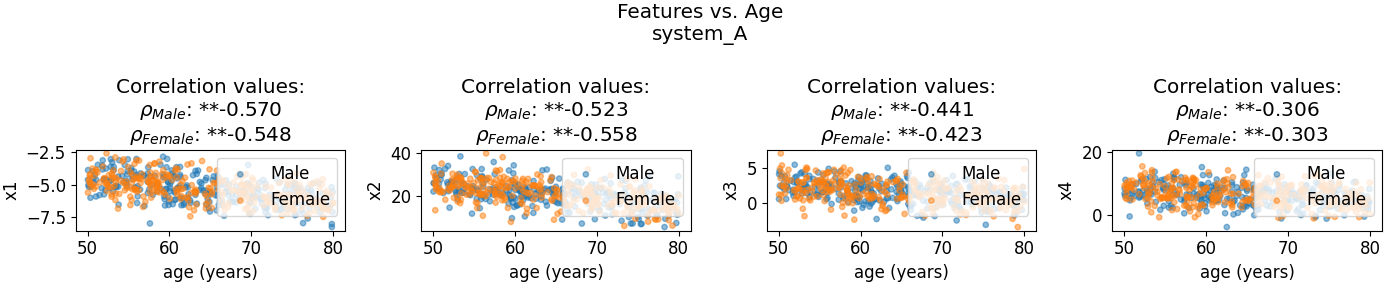
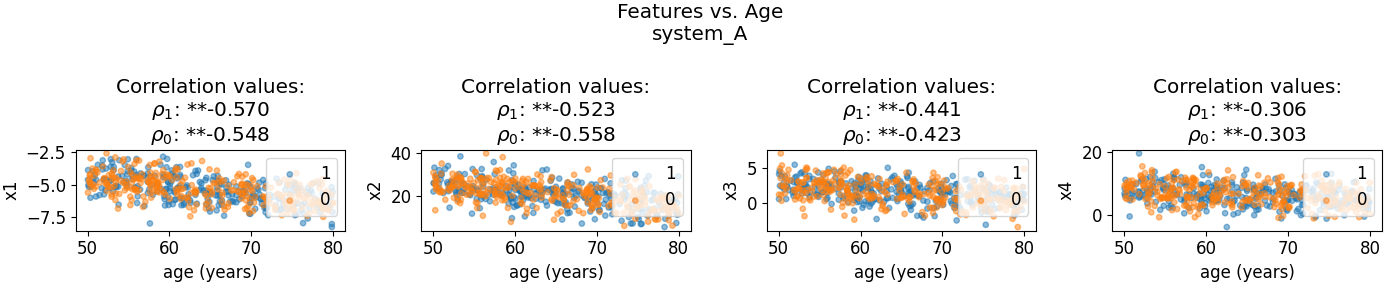
DOC: Updated tutorial and README

diff --git a/docs/TUTORIAL.md b/docs/TUTORIAL.md
@@ -46,32 +46,32 @@ See below the expected output of the `log.txt` file and the age distribution plo
     ```
     <div style="text-align: center;"> <img src="../resources/figs/tutorial/model_age/age_distribution_controls.png" alt="Age distribution of controls stratified by  categorical covariate." height="300"> </div> 
 
-2. Compute and plot the correlation of each feature with the chronological age. If a categorical covariate name is provided in the `--covar_name` argument, the correlation will be computed for each stratum of the covariate. If the `--systems` argument is provided, the correlation will be computed for each system. The `log.txt` file in the specified output directory `output_dir` contains the correlation coefficients and the significance of the correlation for each feature.
+1. Compute and plot the correlation of each feature with the chronological age. If a categorical covariate name is provided in the `--covar_name` argument, the correlation will be computed for each stratum of the covariate. If the `--systems` argument is provided, the correlation will be computed for each system. The `log.txt` file in the specified output directory `output_dir` contains the correlation coefficients and the significance of the correlation for each feature.
 See below a summary of the expected outputs:
     ```
     Features by correlation with Age of Controls [System: system_A]
     significance: 0.05 * -> FDR, ** -> bonferroni
-    Covariate Male
-    1.Male ** x1: -0.57 (3.2e-27)
-    2.Male ** x2: -0.52 (1.7e-22)
-    3.Male ** x3: -0.44 (9.9e-16)
-    4.Male ** x4: -0.31 (6.7e-08)
-    Covariate Female
-    1.Female ** x2: -0.56 (5.6e-26)
-    2.Female ** x1: -0.55 (6.8e-25)
-    3.Female ** x3: -0.42 (2e-14)
-    4.Female ** x4: -0.30 (8.6e-08)
+    Covariate 1
+    1.1 ** x1: -0.57 (3.2e-27)
+    2.1 ** x2: -0.52 (1.7e-22)
+    3.1 ** x3: -0.44 (9.9e-16)
+    4.1 ** x4: -0.31 (6.7e-08)
+    Covariate 0
+    1.0 ** x2: -0.56 (5.6e-26)
+    2.0 ** x1: -0.55 (6.8e-25)
+    3.0 ** x3: -0.42 (2e-14)
+    4.0 ** x4: -0.30 (8.6e-08)
     ```
     <div style="text-align: center;"> <img src="../resources/figs/tutorial/model_age/features_vs_age_controls_system_A.png" alt="Age distribution of controls stratified by categorical covariate." width="1050"> </div> 
 
-3. Train a model specified with the `-m` argument to predict the chronological age of the control group using the features. The model is trained using a K-fold cross-validation that you can specify with the `--cv` argument and the performance metrics are reported in the log file per fold. The use of hyperparameter tuning, polynomial feature extension, and feature scalers can also be specified with the `-ht`, `-fext`, and `-s` arguments, respectively.
+1. Train a model specified with the `-m` argument to predict the chronological age of the control group using the features. The model is trained using a K-fold cross-validation that you can specify with the `--cv` argument and the performance metrics are reported in the log file per fold. The use of hyperparameter tuning, polynomial feature extension, and feature scalers can also be specified with the `-ht`, `-fext`, and `-s` arguments, respectively.
 After training the model, an age-bias correction step is performed, where a linear transformation is applied to the data to fit the $y=x$ line. Also, the age deltas are computed and included in a `predicted_ages_*.csv` file, where the deltas per system are included. **This file is necessary to run the rest of the pipelines**.
     <div style="display: flex; justify-content: center;">
         <div style="margin: 10px;">
-            <img src="../resources/figs/tutorial/model_age/chronological_vs_pred_age_Male_system_A.png" alt="Age distribution of controls stratified by categorical covariate." width="400">
+            <img src="../resources/figs/tutorial/model_age/chronological_vs_pred_age_0_system_A.png" alt="Age distribution of controls stratified by categorical covariate." width="400">
         </div>
         <div style="margin: 10px;">
-            <img src="../resources/figs/tutorial/model_age/age_bias_correction_Male_system_A.png" alt="Age distribution of controls stratified by categorical covariate." width="400">
+            <img src="../resources/figs/tutorial/model_age/age_bias_correction_0_system_A.png" alt="Age distribution of controls stratified by categorical covariate." width="400">
         </div>
     </div>
 
@@ -81,11 +81,11 @@ After training the model, an age-bias correction step is performed, where a line
 To run the factor correlation pipeline run the following command:
 
 ```bash
-factor_correlation -o <output_dir> -a <output_dir/model_age/predicted_age_*> -f toy_factors.csv --covariates toy_covar.csv --clinical toy_clinical.csv
+factor_correlation -o <output_dir> -a <output_dir/model_age/predicted_age_*> -f toy_factors.csv --covariates toy_covar.csv --clinical toy_clinical.csv --covcorr_mode cn
 ```
 
 This pipeline will:
-1. Apply covariate correction to the factors, if covariates are provided.
+1. Apply covariate correction to the factors, if covariates are provided. We specified to base the covariate correction on the control group, but you can also specify to base it on each clinical group and apply the correction separately to each group. In the [Clinical Classify](#4-clinical_classify) section, we will compare this correction using the option `--covcorr_mode each` to apply the correction based on each clinical group.
 2. Compute and plot the correlation between each factor and the age deltas, for every clinical group. If no clinical file is provided, the correlation is computed assuming all subjects are controls. See below the expected output:
     ```
     Correlations between lifestyle factors for g1
@@ -108,7 +108,7 @@ This pipeline will:
 To run the clinical groups pipeline run the following command:
 
 ```bash
-clinical_groups -o <output_dir> -a <output_dir/model_age/predicted_age_*> --clinical toy_clinical.csv --covariates toy_covar.csv
+clinical_groups -o <output_dir> -a <output_dir/model_age/predicted_age_*> --clinical toy_clinical.csv --covariates toy_covar.csv --covcorr_mode cn
 ```
 
 This pipeline will:
@@ -130,10 +130,9 @@ This pipeline will:
     Std age: 9.83
     Age range: [34,80]
     Checking that age distributions are similar using T-test: T-stat (p_value)
-    If p_value > 0.05 distributions are considered similar and not displayed...
+    If p_value > 0.05 distributions are considered simiilar and not displayed...
     Age distributions cn and g1 are not similar: -9.70 (4.2e-21)
-    Age distributions cn and g2 are not similar: 10.80 (1.8e-25)
-    Age distributions g1 and g2 are not similar: 15.68 (1.7e-43)
+    -----------------------------------
     -----------------------------------
     Delta distribution for System:system_a
     [Group: cn]
@@ -149,10 +148,13 @@ This pipeline will:
     Std delta: 4.66
     Delta range: [-9, 17]
     Checking for statistically significant differences between deltas...
+    ===========================================================================================================================
     significance: 0.05 * -> FDR, ** -> bonferroni
-    ** p-value between cn and g1: 1.1e-15
-    ** p-value between cn and g2: 7.5e-35
-    ** p-value between g1 and g2: 3.2e-48
+    p-val (group1 vs. group2)            Cohen's d              CI (95%):   [low, upp]          Delta difference(mean1 - mean2)
+    ---------------------------------------------------------------------------------------------------------------------------
+    ** p-val (cn vs. g1): 1.1e-15        Cohen's d: 0.67        CI (95.0%): [2.27  , 3.73  ]    Delta difference: 3.00           
+    ** p-val (cn vs. g2): 7.5e-35        Cohen's d: -1.06       CI (95.0%): [-5.51 , -4.02 ]    Delta difference: -4.77          
+    ** p-val (g1 vs. g2): 3.2e-48        Cohen's d: -1.68       CI (95.0%): [-8.67 , -6.86 ]    Delta difference: -7.77          
     ```
     <div style="display: flex; justify-content: center;">
         <div style="margin: 10px;">
@@ -168,7 +170,7 @@ This pipeline will:
 To run the clinical classify pipeline run the following command:
 
 ```bash
-clinical_classify -o <output_dir> -a <output_dir/model_age/predicted_age_*> --clinical toy_clinical.csv --covariates toy_covar.csv --groups <group_A> <group_B>
+clinical_classify -o <output_dir> -a <output_dir/model_age/predicted_age_*> --clinical toy_clinical.csv --covariates toy_covar.csv --groups <group_A> <group_B> --covcorr_mode cn
 ```
 
 In the toy dataset, for the groups, you can choose between `cn`, `g1`, and `g2`. This pipeline will:
@@ -202,13 +204,65 @@ In the toy dataset, for the groups, you can choose between `cn`, `g1`, and `g2`.
     ```
     <div style="display: flex; justify-content: center;">
         <div style="margin: 10px;">
-            <img src="../resources/figs/tutorial/clinical_classify/roc_curve_g1_vs_g2_system_a.png" alt="Age distribution of controls stratified by categorical covariate." width="400">
+            <img src="../resources/figs/tutorial/clinical_classify/cn/roc_curve_g1_vs_g2_system_a.png" alt="Age distribution of controls stratified by categorical covariate." width="400">
         </div>
         <div style="margin: 10px;">
-            <img src="../resources/figs/tutorial/clinical_classify/roc_curve_g1_vs_g2_system_b.png" alt="Age distribution of controls stratified by categorical covariate." width="400">
+            <img src="../resources/figs/tutorial/clinical_classify/cn/roc_curve_g1_vs_g2_system_b.png" alt="Age distribution of controls stratified by categorical covariate." width="400">
         </div>
         <div style="margin: 10px;">
-                <img src="../resources/figs/tutorial/clinical_classify/roc_curve_g1_vs_g2_all.png" alt="Age distribution of controls stratified by categorical covariate." width="400">
+                <img src="../resources/figs/tutorial/clinical_classify/cn/roc_curve_g1_vs_g2_all.png" alt="Age distribution of controls stratified by categorical covariate." width="400">
         </div>
     </div>
+
+
+3. Here, we want to demonstrate how the covariate correction can affect the classification results, because in the case of the toy dataset, the covariate "Years of Education" is directly correlated to the age deltas. The classification performance is reduced drastically due to this. We will run the same command but changing the `--covcorr_mode` to `each`:
+
+    ```bash
+    clinical_classify -o <output_dir> -a <output_dir/model_age/predicted_age_*> --clinical toy_clinical.csv --covariates toy_covar.csv --groups     <group_A> <group_B> --covcorr_mode each
+    ```
+
+    The log and the results are the following:
+    ```
+    Classification between groups g1 and g2 [System: system_a]
+    Applying covariate correction for deltas using each clinical group as reference.
+    Summary metrics over all CV splits (0.95 CI)
+    AUC: 0.567 [0.448-0.687]
+    Accuracy: 0.547 [0.445-0.650]
+    Sensitivity: 0.541 [0.450-0.633]
+    Specificity: 0.566 [0.370-0.762]
+    -----------------------------------
+    Classification between groups g1 and g2 [System: system_b]
+    Applying covariate correction for deltas using each clinical group as reference.
+    Summary metrics over all CV splits (0.95 CI)
+    AUC: 0.559 [0.462-0.656]
+    Accuracy: 0.540 [0.466-0.614]
+    Sensitivity: 0.540 [0.341-0.739]
+    Specificity: 0.559 [0.374-0.744]
+    -----------------------------------
+    Classification between groups g1 and g2 [System: all]
+    Applying covariate correction for deltas using each clinical group as reference.
+    Summary metrics over all CV splits (0.95 CI)
+    AUC: 0.555 [0.503-0.608]
+    Accuracy: 0.550 [0.501-0.599]
+    Sensitivity: 0.541 [0.439-0.643]
+    Specificity: 0.572 [0.426-0.719]
+    Logistic regressor weigths coef (norm_coef):
+    delta_system_a = 0.050 (1.000)
+    delta_system_b = 0.045 (0.895)
+    ```
+
+    <div style="display: flex; justify-content: center;">
+        <div style="margin: 10px;">
+            <img src="../resources/figs/tutorial/clinical_classify/each/roc_curve_g1_vs_g2_system_a.png" alt="Age distribution of controls stratified by categorical covariate." width="400">
+        </div>
+        <div style="margin: 10px;">
+            <img src="../resources/figs/tutorial/clinical_classify/each/roc_curve_g1_vs_g2_system_b.png" alt="Age distribution of controls stratified by categorical covariate." width="400">
+        </div>
+        <div style="margin: 10px;">
+                <img src="../resources/figs/tutorial/clinical_classify/each/roc_curve_g1_vs_g2_all.png" alt="Age distribution of controls stratified by categorical covariate." width="400">
+        </div>
+    </div>
+
+    Thus, we could say that the covariates in our data have good classification power on their own, due to their direct correlation with age deltas. Be aware that this example is only for demonstration purposes of the tool, and reality does not necessarily reflect this phenomenon, so always be cautious when analyzing and interpreting your data.
+
 

diff --git a/README.md b/README.md
@@ -79,6 +79,7 @@ The contribution guidelines can be found [here](./docs/CONTRIBUTING.md).
 ## How to use `ageml`
 
 A comprehensive, step by step tutorial of the tool can be found [here](./docs/TUTORIAL.md).
+You can also tinker around with our [getting started Colab notebook](https://colab.research.google.com/drive/1FtHbIghXLswG8IcOgFZBHJ07wKnLuzbG?authuser=3) if you want a more interactive experience.
 
 ## Motivation
 
